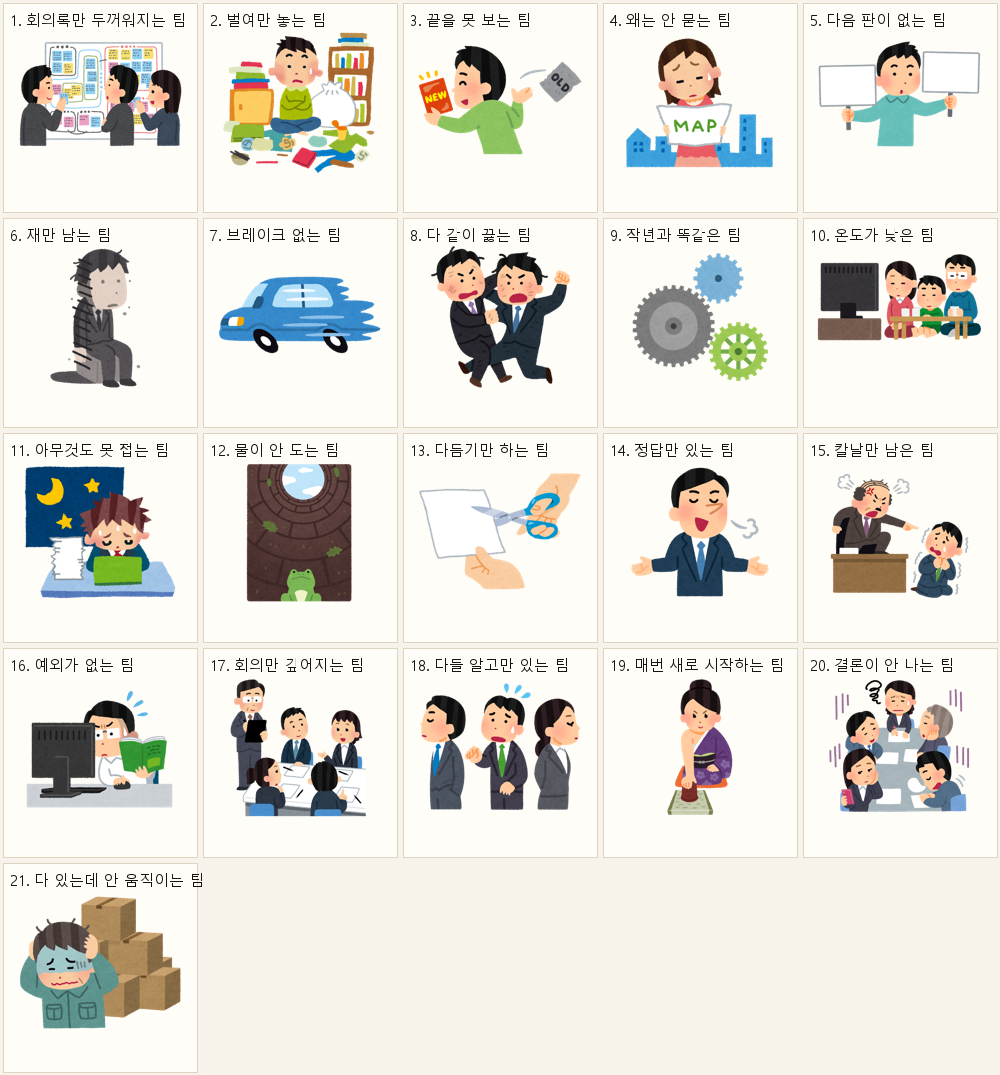
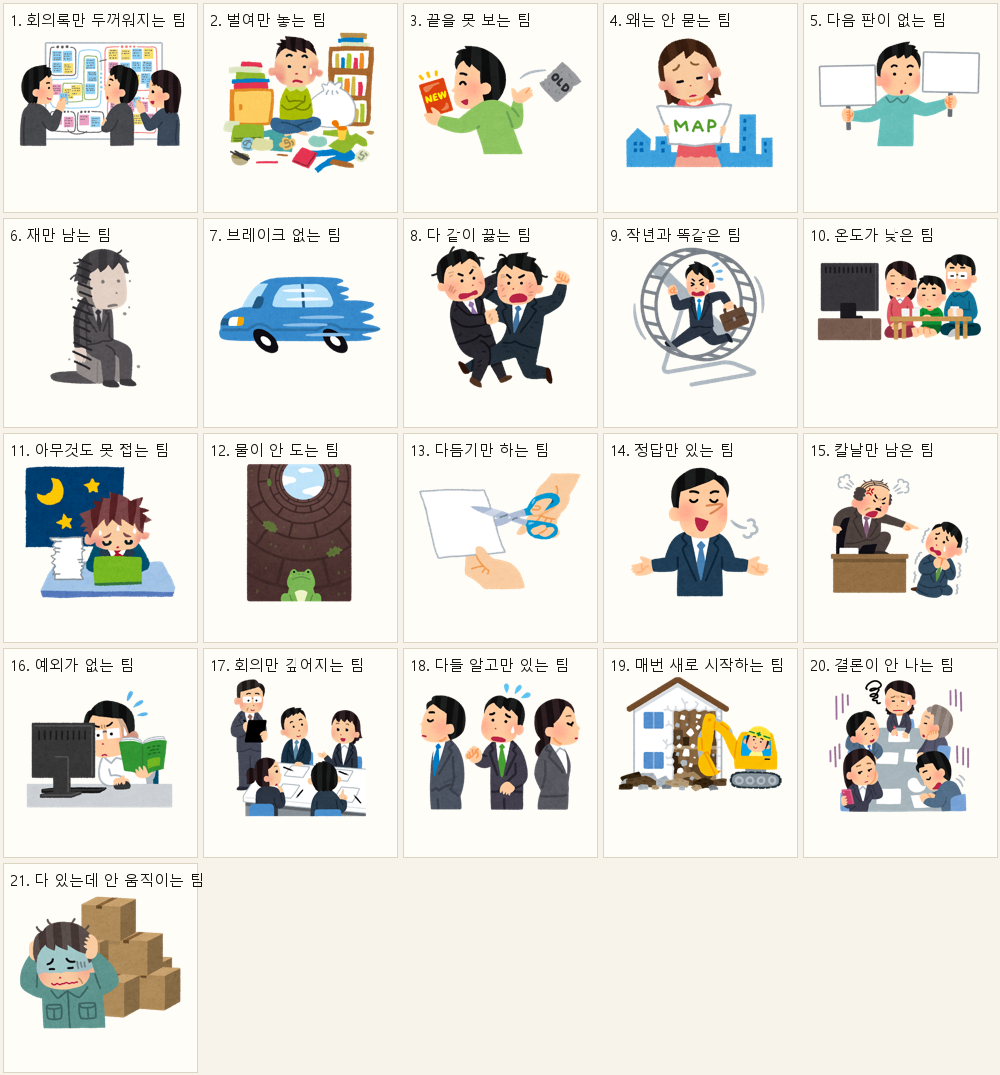
[DESIGN] 9번과 19번 그림을 바꾼다 (#59)
- 작년과 똑같은 팀: 톱니바퀴 → 쳇바퀴 안에서 달리는 회사원. 반복이라는 뜻은
  톱니바퀴도 갖고 있지만 그건 잘 맞물려 돈다는 좋은 쪽이라, "삼 년째 똑같이
  굴러간다" 의 답답한 쪽이 안 실렸다
- 매번 새로 시작하는 팀: 주사위 굴리는 사람 → 헐고 다시 짓는 집. 도박판
  기모노라 나머지 스무 장과 톤이 갈렸고, 木 카드에서 파친코를 뺀 것과도
  어긋났다. 지었다 부수고 다시 짓는 그림이 "잘 바꾸는데 쌓인 게 하나도
  없다" 를 그대로 말한다

사람이 안 나와도 된다. 상징이 문구를 말하면 그게 낫다.

Changed region(s): [[0.62, 0.2149, 0.775, 0.3684], [0.62, 0.614, 0.806, 0.7674]]

diff --git a/src/lib/copy/result.ts b/src/lib/copy/result.ts
@@ -69,7 +69,7 @@ export const illustrationCopy = {
     'fire-no-earth': '다 타버려 재가 된 회사원',
     'fire-no-metal': '빠르게 달려 나가는 자동차',
     'fire-no-water': '멱살을 잡고 다투는 회사원 둘',
-    'earth-no-wood': '맞물려 도는 톱니바퀴',
+    'earth-no-wood': '쳇바퀴 안에서 달리는 회사원',
     'earth-no-fire': '말없이 앉아 있는 가족',
     'earth-no-metal': '밤에 혼자 남아 일하는 사람',
     'earth-no-water': '우물 안에서 하늘을 보는 개구리',
@@ -79,7 +79,7 @@ export const illustrationCopy = {
     'metal-no-water': '매뉴얼을 펼쳐 든 사람',
     'water-no-wood': '둘러앉아 토론하는 사람들',
     'water-no-fire': '고개를 돌린 동료들 사이에 선 사람',
-    'water-no-earth': '주사위를 다시 굴리는 사람',
+    'water-no-earth': '헐고 다시 짓는 집',
     'water-no-metal': '끝나지 않는 회의',
     'balanced': '쌓인 상자 앞에서 머리를 감싸쥔 사람',
   },
